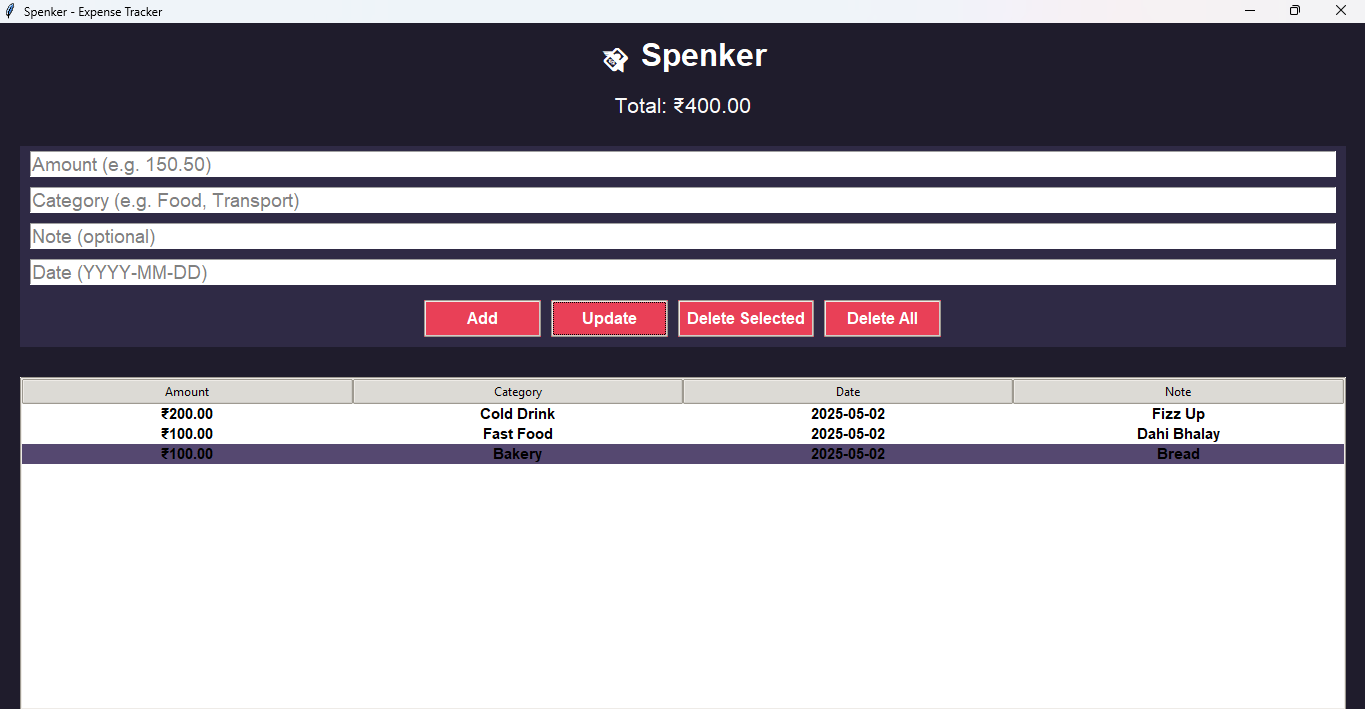
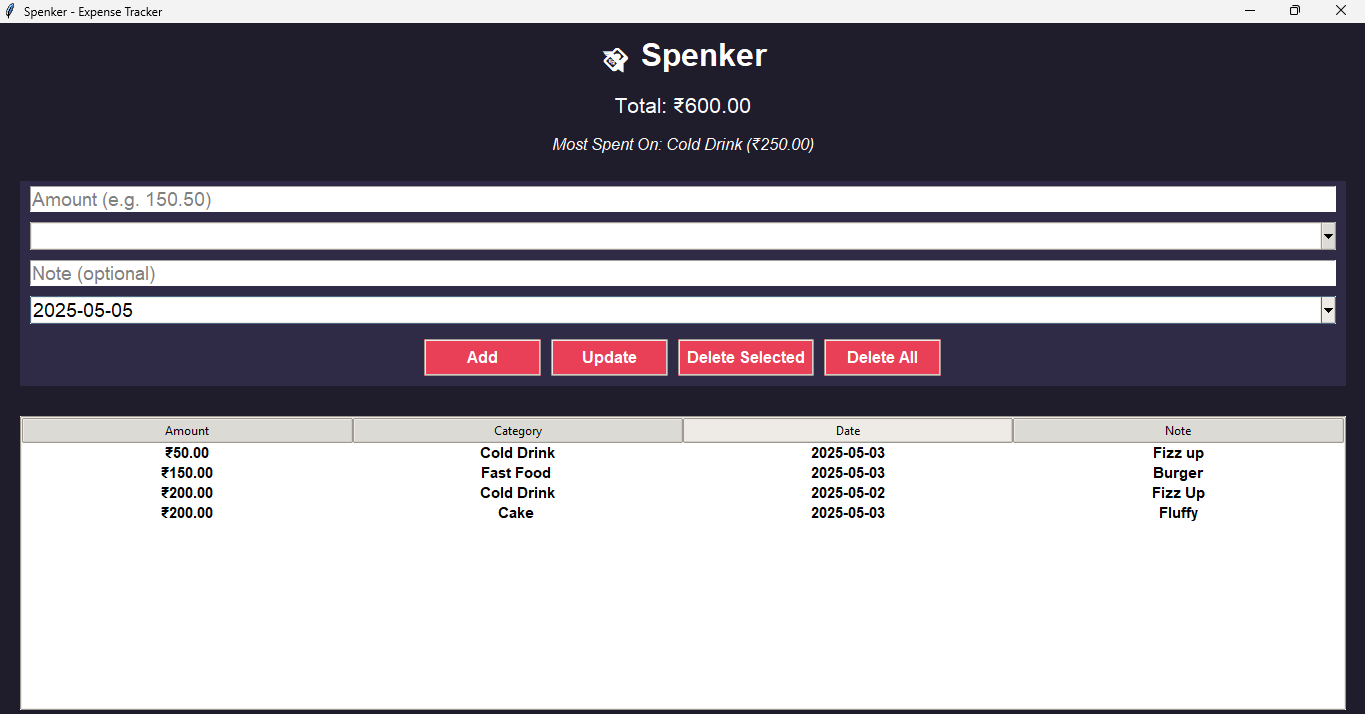
Updated the spenker app

diff --git a/spenkerGUI.py b/spenkerGUI.py
@@ -1,6 +1,7 @@
 import tkinter as tk
 from tkinter import ttk, messagebox
 import sqlite3
+from tkcalendar import DateEntry
 
 # ----------------- Database Setup -----------------
 conn = sqlite3.connect("spenker.db")
@@ -21,7 +22,7 @@ class ExpenseApp:
     def __init__(self, root):
         self.root = root
         self.root.title("Spenker - Expense Tracker")
-        self.root.geometry("600x700")
+        self.root.geometry("600x750")
         self.root.config(bg="#1f1c2c")
 
         # Style setup
@@ -44,15 +45,30 @@ class ExpenseApp:
                                     bg="#1f1c2c", fg="#f9f9f9")
         self.total_label.pack(pady=5)
 
+        # Top Category Label
+        self.top_category_label = tk.Label(root, text="", font=("Helvetica", 12, "italic"),
+                                           bg="#1f1c2c", fg="#ffffff")
+        self.top_category_label.pack(pady=5)
+
         # Entry Frame
         self.entry_frame = tk.Frame(root, bg="#2f2a45")
         self.entry_frame.pack(pady=20, padx=20, fill="x")
 
-        # Entry fields with placeholder text
+        # Entry fields
         self.amount_entry = self.create_entry("Amount (e.g. 150.50)")
-        self.category_entry = self.create_entry("Category (e.g. Food, Transport)")
+
+        # Category Combobox with editable option
+        self.category_var = tk.StringVar()
+        self.category_combo = ttk.Combobox(self.entry_frame, textvariable=self.category_var, font=("Helvetica", 14))
+        self.category_combo['values'] = ("Food", "Transport", "Health", "Utilities", "Entertainment", "Shopping", "Other")
+        self.category_combo.set("Select or Type Category")
+        self.category_combo.pack(pady=5, padx=10, fill="x")
+
         self.note_entry = self.create_entry("Note (optional)")
-        self.date_entry = self.create_entry("Date (YYYY-MM-DD)")
+
+        # Date picker
+        self.date_entry = DateEntry(self.entry_frame, date_pattern='yyyy-mm-dd', font=("Helvetica", 14))
+        self.date_entry.pack(pady=5, padx=10, fill="x")
 
         # Button Frame (horizontal)
         self.button_frame = tk.Frame(self.entry_frame, bg="#2f2a45")
@@ -107,13 +123,22 @@ class ExpenseApp:
 
     def add_expense(self):
         try:
-            amount = float(self.amount_entry.get()) if self.amount_entry.get() not in ("", "Amount (e.g. 150.50)") else None
-            category = self.category_entry.get()
-            note = self.note_entry.get()
-            date = self.date_entry.get()
+            amount_text = self.amount_entry.get()
+            if amount_text in ("", "Amount (e.g. 150.50)"):
+                amount = None
+            else:
+                amount = float(amount_text)
 
-            if not amount or category in ("", "Category (e.g. Food, Transport)") or date in ("", "Date (YYYY-MM-DD)"):
+            category = self.category_var.get()
+            note = self.note_entry.get()
+            date = self.date_entry.get_date().strftime("%Y-%m-%d")
+
+            if amount is None or category in ("", "Select or Type Category"):
                 messagebox.showerror("Missing Info", "Please enter all required fields.")
+                return
+
+            if amount <= 0:
+                messagebox.showerror("Invalid", "Amount must be a positive number.")
                 return
 
             cursor.execute("INSERT INTO expenses (amount, category, note, date) VALUES (?, ?, ?, ?)",
@@ -131,10 +156,23 @@ class ExpenseApp:
             return
 
         try:
-            amount = float(self.amount_entry.get())
-            category = self.category_entry.get()
+            amount_text = self.amount_entry.get()
+            if amount_text in ("", "Amount (e.g. 150.50)"):
+                amount = None
+            else:
+                amount = float(amount_text)
+
+            category = self.category_var.get()
             note = self.note_entry.get()
-            date = self.date_entry.get()
+            date = self.date_entry.get_date().strftime("%Y-%m-%d")
+
+            if amount is None or category in ("", "Select or Type Category"):
+                messagebox.showerror("Missing Info", "Please enter all required fields.")
+                return
+
+            if amount <= 0:
+                messagebox.showerror("Invalid", "Amount must be a positive number.")
+                return
 
             cursor.execute("UPDATE expenses SET amount=?, category=?, note=?, date=? WHERE id=?",
                            (amount, category, note, date, selected))
@@ -164,13 +202,14 @@ class ExpenseApp:
     def clear_fields(self):
         for entry, placeholder in [
             (self.amount_entry, "Amount (e.g. 150.50)"),
-            (self.category_entry, "Category (e.g. Food, Transport)"),
-            (self.note_entry, "Note (optional)"),
-            (self.date_entry, "Date (YYYY-MM-DD)")
+            (self.note_entry, "Note (optional)")
         ]:
             entry.delete(0, tk.END)
             entry.insert(0, placeholder)
             entry.config(fg='grey')
+
+        self.category_combo.set("Select or Type Category")
+        self.date_entry.set_date(self.date_entry._date.today())
 
     def update_expense_list(self):
         for item in self.tree.get_children():
@@ -187,6 +226,15 @@ class ExpenseApp:
 
         self.total_label.config(text=f"Total: ₹{total:.2f}")
 
+        # Update top category
+        cursor.execute("SELECT category, SUM(amount) FROM expenses GROUP BY category ORDER BY SUM(amount) DESC LIMIT 1")
+        top_category = cursor.fetchone()
+        if top_category:
+            top_cat_text = f"Most Spent On: {top_category[0]} (₹{top_category[1]:.2f})"
+        else:
+            top_cat_text = "No expenses recorded yet."
+
+        self.top_category_label.config(text=top_cat_text)
 
 # ------------------ Run App ------------------
 if __name__ == "__main__":

diff --git a/spenker.py b/spenker.py
@@ -5,7 +5,7 @@ def add_expense():
     amount = float(input("Enter amount: "))
     category = input("Enter category: ")
     note = input("Enter note: ")
-    date = input("Enter date (YYYY-MM-DD): ")
+    date = input("Enter date (DD-MM-YYYY): ")
 
 # Dictionary, containing details of an expense
     expense = {
@@ -35,7 +35,8 @@ def total_expense():
     print(f"Total expenses: ₹{total}")
 
 
-# This function must be executed every time you run the program 
+# This function will be executed every time after one option
+# is completed and every time you run the program. 
 def menu():
     while True:
         print("\n--- Spenker Expense Tracker ---")
